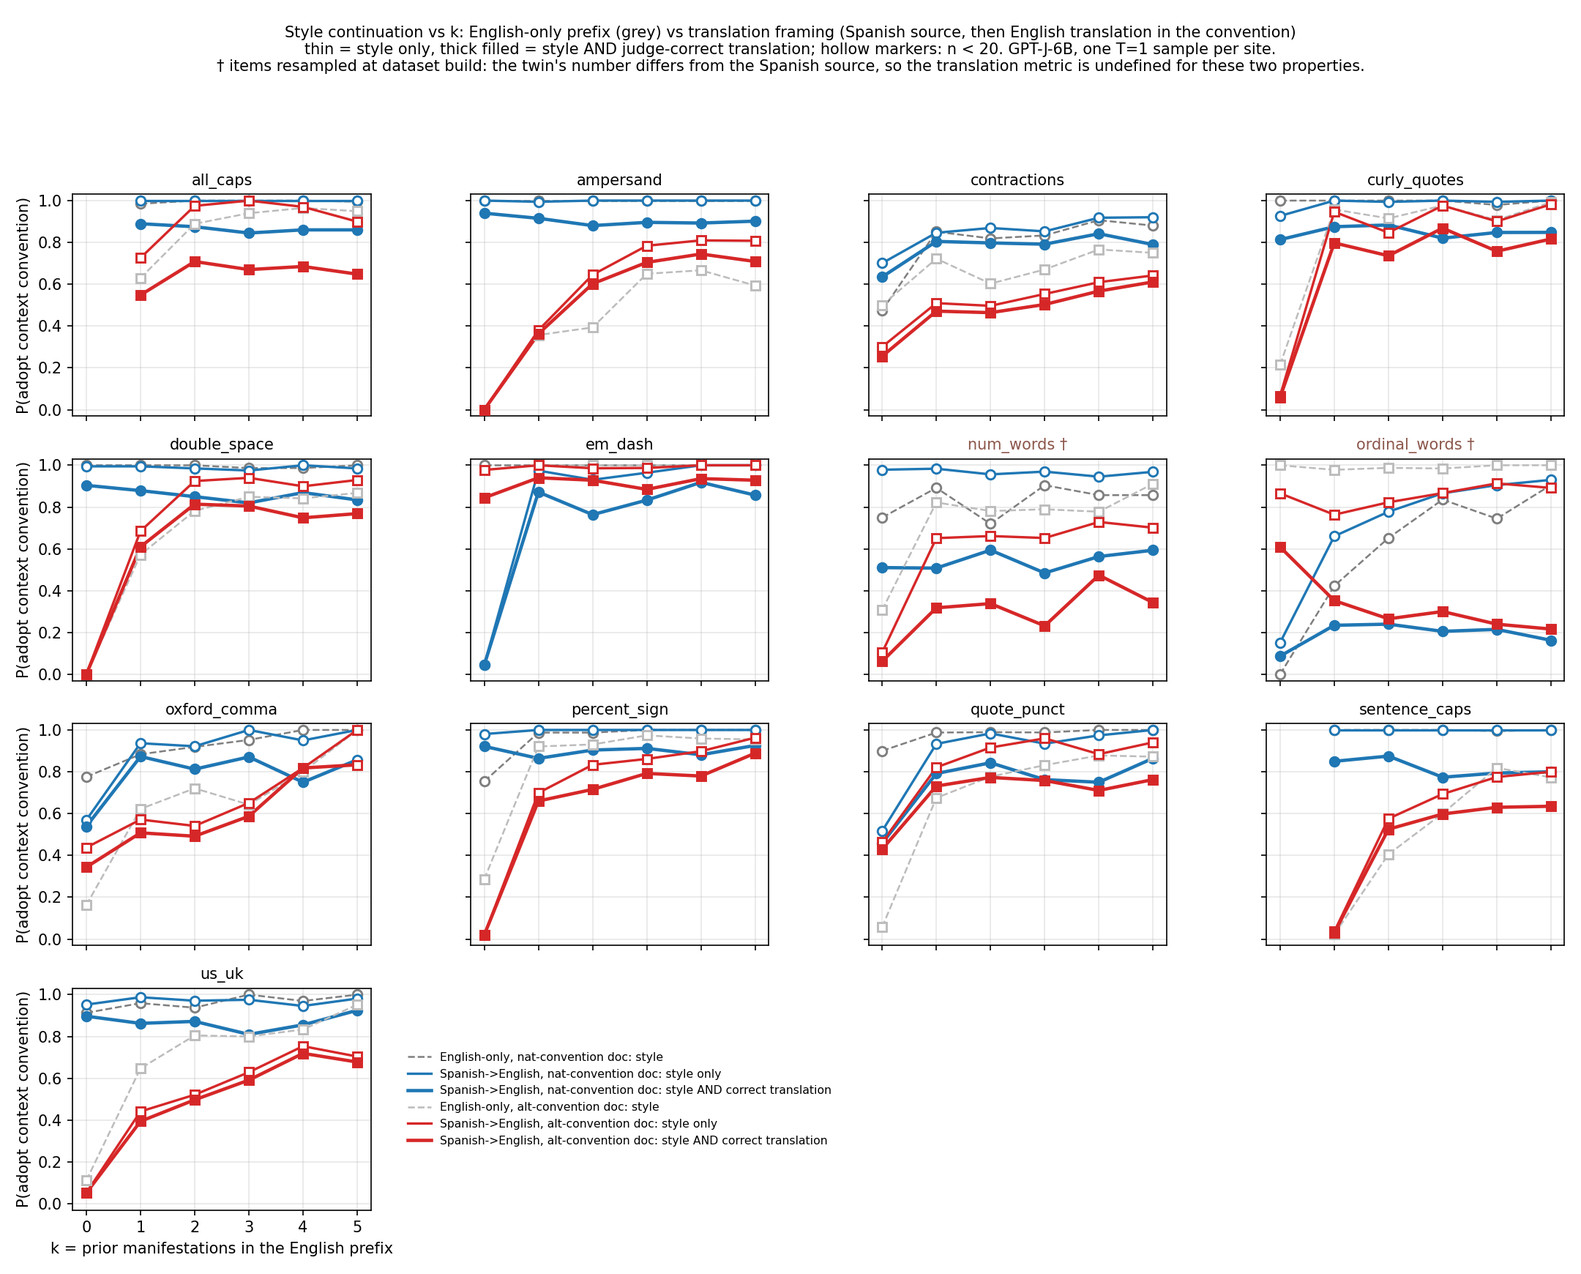
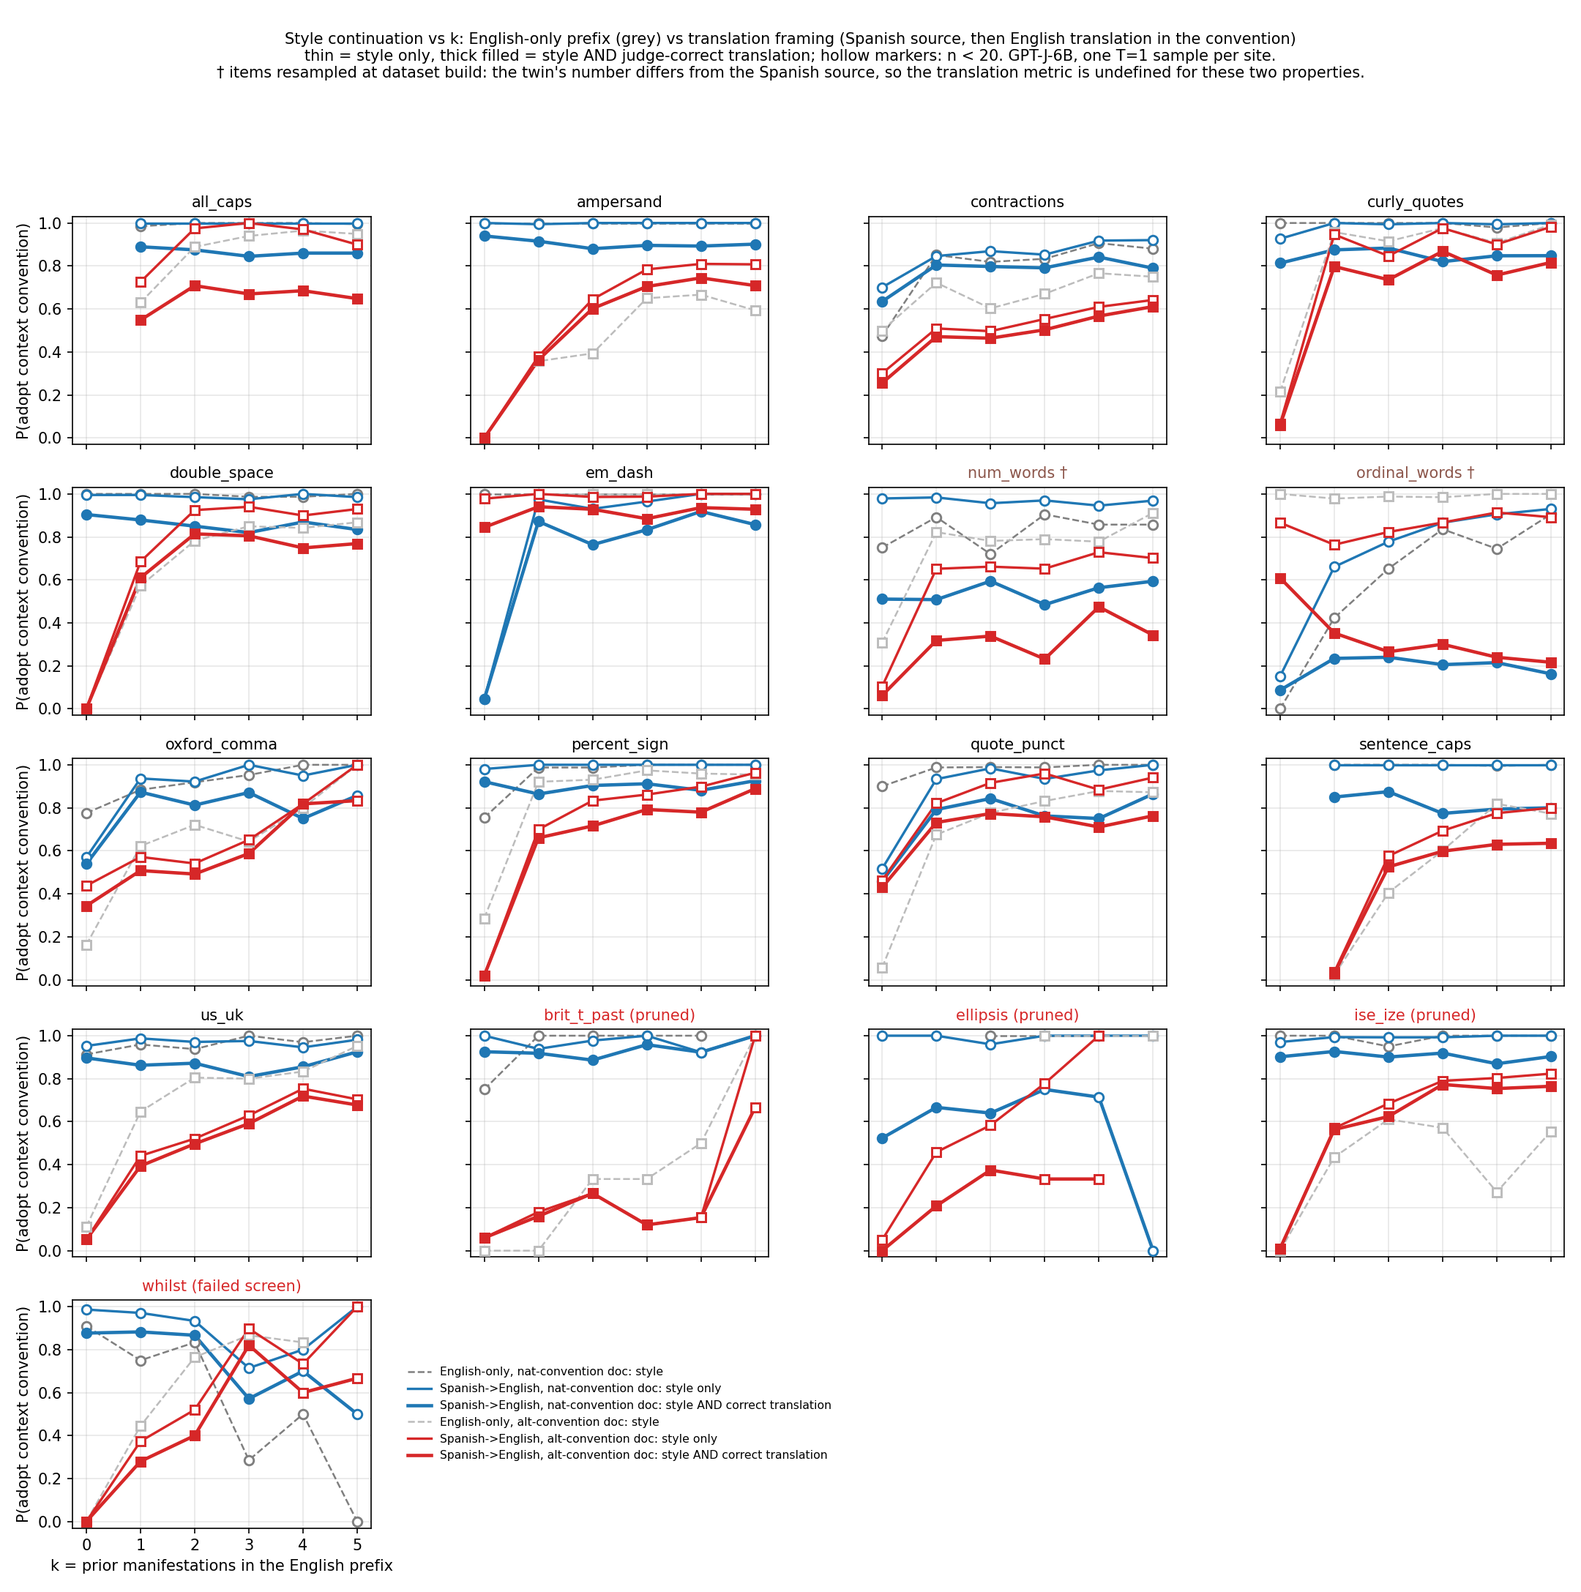
translation framing: all 17 properties incl. the 4 prescreen-excluded ones; A4 gate re-evaluated under both framings (gate.csv); README/WORKLOG/DECISIONS

diff --git a/src/sandbox/ext_styleprops/plot_translation_framing.py b/src/sandbox/ext_styleprops/plot_translation_framing.py
@@ -37,9 +37,19 @@ from src.utils.paths import ARTIFACTS_ROOT, REPO_ROOT, STYLE_PROPERTIES_DIR
 PLAIN_DIR = ARTIFACTS_ROOT / "style_properties" / "prescreen"
 TRANS_DIR = ARTIFACTS_ROOT / "style_properties" / "prescreen_translate"
 OUT_DIR = STYLE_PROPERTIES_DIR / "translation_framing"
-POOL = json.load(open(REPO_ROOT / "task_splits" / "style_properties_pool.json"))["pass"]
+_POOL_FILE = json.load(open(REPO_ROOT / "task_splits" / "style_properties_pool.json"))
+POOL = _POOL_FILE["pass"]
+# The 4 properties excluded from the pool by the ENGLISH-ONLY prescreen (whilst failed the
+# gate; ellipsis / brit_t_past / ise_ize pruned for one-sided classifier / <15% scorable).
+# User request 2026-09-07: run them through the translation framing too and re-evaluate the
+# gate under it — the framing anchors content, so they may reach the feature slot far more often.
+EXCLUDED = {p: "failed screen" for p in _POOL_FILE.get("fail", [])}
+EXCLUDED.update({p: "pruned" for p in _POOL_FILE.get("pruned", [])})
+ALL_PROPS = POOL + sorted(EXCLUDED)
 PLOT_BINS = list(range(6))
+K_BINS = [0, 1, 2, 3, 4]          # gate bins, last = k>=4 (plot_prescreen convention)
 MIN_N = 20
+SCORABLE_FLOOR = 0.15
 # Items of these properties are RESAMPLED at dataset build (properties.py NumWords/OrdinalWords
 # .resample, user decision 2026-09-02), so the English twin's number differs from the Spanish
 # source at the scored site: translation correctness is undefined there (see README).
@@ -47,7 +57,12 @@ RESAMPLED = {"num_words", "ordinal_words"}
 
 
 def panel_title(p):
-    return f"{p} †" if p in RESAMPLED else p
+    t = f"{p} †" if p in RESAMPLED else p
+    return f"{t} ({EXCLUDED[p]})" if p in EXCLUDED else t
+
+
+def title_color(p):
+    return "#d62728" if p in EXCLUDED else ("#8c564b" if p in RESAMPLED else "black")
 LABEL_CODE = {"nat": 1, "alt": 0, None: -1}
 
 
@@ -87,6 +102,64 @@ def curves(a, sel):
     return out
 
 
+def spearman(xs, ys):
+    """Spearman rho without scipy (few points, ties unlikely)."""
+    xs, ys = np.asarray(xs, float), np.asarray(ys, float)
+    if len(xs) < 3 or np.ptp(xs) == 0 or np.ptp(ys) == 0:
+        return np.nan          # constant input -> undefined, as scipy.stats.spearmanr
+
+    def avg_rank(v):           # average ranks for ties (scipy rankdata default)
+        u, inv = np.unique(v, return_inverse=True)
+        pos = np.argsort(np.argsort(v, kind="stable"), kind="stable").astype(float)
+        r = np.empty_like(pos)
+        for i in range(len(u)):
+            m = inv == i
+            r[m] = pos[m].mean()
+        return r
+    rx, ry = avg_rank(xs), avg_rank(ys)
+    rx, ry = rx - rx.mean(), ry - ry.mean()
+    den = np.sqrt((rx ** 2).sum() * (ry ** 2).sum())
+    return float((rx * ry).sum() / den) if den else np.nan
+
+
+def gate_stats(a):
+    """The Stage-A4 prescreen gate (plot_prescreen.py, memo item 4) on one record set:
+    separation s(k) = P(nat | nat ctx) - P(nat | alt ctx) over scorable items in gate bins
+    k=0..3, k>=4; PASS = s_k4 >= 0.3 AND Spearman(k, s) > 0 (or undefined) AND adherence to
+    the prior-DISFAVOURED pole at k>=4 >= 0.4 AND scorable >= 15% floor."""
+    kb = np.minimum(a["k"], 4)
+    sc = a["scorable"]
+    is_nat_lab = a["label"] == 1
+    s_curve = []
+    for k in K_BINS:
+        m = sc & (kb == k)
+        pn = rate(is_nat_lab, m & a["pol"])[0]
+        pa = rate(is_nat_lab, m & ~a["pol"])[0]
+        s_curve.append(pn - pa)
+    scorable = float(sc.mean())
+    s_k4 = s_curve[-1]
+    valid = [(k, s) for k, s in zip(K_BINS, s_curve) if not np.isnan(s)]
+    rho = spearman([v[0] for v in valid], [v[1] for v in valid]) if len(valid) >= 3 else np.nan
+    m0 = sc & (kb == 0)
+    nat_k0 = rate(is_nat_lab, m0 & a["pol"])[0]
+    alt_k0 = rate(is_nat_lab, m0 & ~a["pol"])[0]
+    with np.errstate(all="ignore"):
+        import warnings
+        with warnings.catch_warnings():
+            warnings.simplefilter("ignore")
+            prior_nat = bool(np.nanmean([nat_k0, alt_k0]) > 0.5)   # nan > 0.5 is False, as in plot_prescreen
+    disf_is_nat = not prior_nat
+    sub = sc & (kb == 4) & (a["pol"] == disf_is_nat)
+    v = rate(is_nat_lab, sub)[0]
+    adh_disf = v if disf_is_nat else (1 - v)
+    passed = (not np.isnan(s_k4) and s_k4 >= 0.3 and (np.isnan(rho) or rho > 0)
+              and not np.isnan(adh_disf) and adh_disf >= 0.4 and scorable >= SCORABLE_FLOOR)
+    r3 = lambda x: "" if np.isnan(x) else round(float(x), 3)
+    return dict(scorable=round(scorable, 3), s_k0=r3(s_curve[0]), s_k4=r3(s_k4),
+                spearman_k=r3(rho), disfavored_pole="nat" if disf_is_nat else "alt",
+                adh_disfavored_k4=r3(adh_disf), n_disfavored_k4=int(sub.sum()), PASS=passed)
+
+
 def plot_line(ax, cur, key, color, ls, marker, label, filled=True, lw=1.6):
     xs = [k for k in PLOT_BINS if not np.isnan(cur[k][key][0])]
     ys = [cur[k][key][0] for k in xs]
@@ -99,8 +172,8 @@ def plot_line(ax, cur, key, color, ls, marker, label, filled=True, lw=1.6):
 
 def main():
     OUT_DIR.mkdir(parents=True, exist_ok=True)
-    props = [p for p in POOL if (TRANS_DIR / f"{p}.json").exists()]
-    missing = [p for p in POOL if p not in props]
+    props = [p for p in ALL_PROPS if (TRANS_DIR / f"{p}.json").exists()]
+    missing = [p for p in ALL_PROPS if p not in props]
     if missing:
         print("missing translate records:", missing)
     data = {p: {"plain": load(PLAIN_DIR / f"{p}.json"), "trans": load(TRANS_DIR / f"{p}.json")}
@@ -151,7 +224,7 @@ def main():
         for framing in ("plain", "trans"):
             for key in ("k", "pol", "label", "exact", "judge"):
                 npz[f"{p}__{framing}__{key}"] = data[p][framing][key]
-        ax.set_title(panel_title(p), fontsize=10, color="#8c564b" if p in RESAMPLED else "black")
+        ax.set_title(panel_title(p), fontsize=10, color=title_color(p))
         ax.set_ylim(-0.03, 1.03)
         ax.set_xticks(PLOT_BINS)
         ax.grid(alpha=0.3)
@@ -190,7 +263,7 @@ def main():
                   filled=False, lw=1.3)
         plot_line(ax, allp, "unscorable", "#c5b0d5", ":", "^", "English-only: style-unscorable fraction",
                   filled=False, lw=1.3)
-        ax.set_title(panel_title(p), fontsize=10, color="#8c564b" if p in RESAMPLED else "black")
+        ax.set_title(panel_title(p), fontsize=10, color=title_color(p))
         ax.set_ylim(-0.03, 1.03)
         ax.set_xticks(PLOT_BINS)
         ax.grid(alpha=0.3)
@@ -211,6 +284,25 @@ def main():
     fig.tight_layout(rect=(0, 0, 1, 0.93))
     fig.savefig(OUT_DIR / "translation_by_k.png", dpi=150)
     plt.close(fig)
+
+    # ---- gate.csv: the English-only prescreen gate re-evaluated under both framings ---------
+    gate_rows = []
+    for p in props:
+        for framing in ("plain", "trans"):
+            g = gate_stats(data[p][framing])
+            gate_rows.append({"property": p, "framing": framing,
+                              "pool_status": EXCLUDED.get(p, "in pool"),
+                              "n": int(len(data[p][framing]["k"])), **g})
+    with open(OUT_DIR / "gate.csv", "w", newline="") as f:
+        w = csv.DictWriter(f, fieldnames=list(gate_rows[0].keys()))
+        w.writeheader()
+        w.writerows(gate_rows)
+    print(f"\n{'property':14s} {'status':13s} {'framing':7s} {'scorable':>8s} {'s_k4':>6s} "
+          f"{'rho':>6s} {'adh_disf':>8s} {'n_disf':>6s} PASS")
+    for r in gate_rows:
+        print(f"{r['property']:14s} {r['pool_status']:13s} {r['framing']:7s} {r['scorable']:>8} "
+              f"{str(r['s_k4']):>6} {str(r['spearman_k']):>6} {str(r['adh_disfavored_k4']):>8} "
+              f"{r['n_disfavored_k4']:>6} {r['PASS']}")
 
     cols = list(summary[0].keys())
     with open(OUT_DIR / "summary.csv", "w", newline="") as f:

diff --git a/results/style_properties/translation_framing/README.md b/results/style_properties/translation_framing/README.md
@@ -37,7 +37,7 @@ prescreen (≤10), classified nat / alt / unscorable by the same property classi
 | Spanish form | **neutral and fixed**: one translation per base doc (Gemini 2.5 Flash via OpenRouter, T=0), identical for both English polarities, standard Spanish typography — single spaces, straight quotes, digits, `%`, sentence caps, parenthetical dashes rendered as ` - `. Enforced by a deterministic fix-up; `es_audit.csv` shows zero remaining double spaces / curly quotes / em-dashes / all-caps sentences, length ratio es/en median 1.16 [1.02, 1.32], paragraph structure preserved in all 878 docs. The English prefix is the only source of the convention. |
 | translation metric | **Gemini judge primary, normalised exact match secondary** (definitions below) |
 | prompt layout | **language labels** `Spanish:` / `English:` |
-| scope | translation framing only is sampled; the English-only comparison reuses the 2026-09-01/02 prescreen records (same items, different sampling run) |
+| scope | translation framing only is sampled (13-property pool on 2026-09-06, the 4 excluded properties added 2026-09-07 at the user's request — see Extension below); the English-only comparison reuses the 2026-09-01/02 prescreen records (same items, different sampling run) |
 
 ## Metrics
 
@@ -63,6 +63,7 @@ prescreen (≤10), classified nat / alt / unscorable by the same property classi
 | `accuracy_by_k.png` | per property: English-only style (grey dashed) vs translation-framed style-only (open) and joint style+translation (filled), by exact k 0..5, both context polarities |
 | `translation_by_k.png` | judge-correct and exact-match rates vs k (translate framing), English-only exact-match reference, style-unscorable fractions |
 | `summary.csv` | per property × framing × context polarity: style/judge/exact/joint/unscorable by k with denominators, k≥4 aggregates, judge-failure counts |
+| `gate.csv` | the Stage-A4 prescreen gate (separation, Spearman, disfavoured-pole adherence, 15 % scorable floor) re-evaluated for all 17 properties under both framings (extension 2026-09-07) |
 | `records.npz` | per property × framing arrays `k, pol, label, exact, judge` to regenerate views |
 | `es_audit.csv` | per-doc Spanish audit (word ratios, leak counts, paragraph counts) |
 
@@ -132,6 +133,46 @@ Nat-convention docs sit at 0.93–1.0 style in both framings (see `summary.csv`,
   `double_space`, `sentence_caps`, `all_caps` show no k = 0 shift. So the k = 0 point of the
   framing is "Spanish typography prior", not the model's own prior; from k ≥ 1 the English
   prefix dominates for every property.
+## Extension 2026-09-07: the four properties excluded by the English-only prescreen
+
+User request: the prescreen pruning (`whilst` failed the gate; `ellipsis`, `brit_t_past`,
+`ise_ize` pruned for one-sided classifier / < 15 % scorable) was decided under free
+continuation, so the four were run through the translation framing too and the **same gate**
+(separation at k ≥ 4 ≥ 0.3, Spearman(k, separation) > 0, adherence to the prior-disfavoured pole
+at k ≥ 4 ≥ 0.4, plus the 15 % scorable floor) re-evaluated under both framings for all 17
+properties → `gate.csv` (`plot_translation_framing.py` reproduces
+`behavioral_prescreen/prescreen_summary.csv` exactly on the English-only records).
+
+| property | scorable, English-only → framing | separation k≥4, framing | adherence disfavoured pole k≥4 (n) | judge-correct | gate under framing |
+|---|---|---|---|---|---|
+| ise_ize (pruned) | 0.107 → 0.690 | 0.805 | 0.805 (118) | 0.889 | **PASS** |
+| whilst (failed) | 0.085 → 0.506 | 0.611 | 0.778 (18) | 0.794 | PASS, thin k≥4 cells |
+| ellipsis (pruned) | 0.037 → 0.584 | 1.000 | 1.000 (8) | 0.561 * | PASS, very thin (148 sites) |
+| brit_t_past (pruned) | 0.050 → 0.608 | 0.266 | 0.316 (19) | 0.850 | **FAIL** (separation) |
+
+- **The scorable-rate objection disappears under the framing**: content anchoring makes the
+  model reach the lexical slot (the -ise/-ize word, whilst/while, the past-tense verb, the
+  ellipsis), so all four clear the 15 % floor by a wide margin. That was the reason three of
+  them were pruned.
+- **ise_ize now behaves like a pool property** (0.805 adherence to the British pole at k ≥ 4,
+  n = 118) and is the clearest candidate for re-admission — *for this framing*. Whether it
+  re-enters the English-only pool is a separate user decision: under free continuation its
+  scorable rate is still 10.7 %.
+- **whilst and ellipsis pass but on 18 and 8 disfavoured-pole items** at k ≥ 4 — their
+  documents rarely contain ≥ 5 opportunities. Treat as provisional.
+- **brit_t_past fails on separation, not on scorability**: with ≥ 4 British "-t" pasts in the
+  prefix the model still writes the regular form 68 % of the time (alt docs, k ≥ 4: 0.316). The
+  convention is not adopted in either framing.
+- \* ellipsis judge score is deflated by an artefact, not by bad translation: many ellipsis
+  sites end a sentence or the document, so the reference continuation is just "..." and the
+  fragment runs on into text the source does not contain, which the judge marks INCORRECT.
+- Figures now show all 17 panels; excluded properties are titled in red with their
+  original status. `gate.csv` PASS applies the 15 % floor, so the English-only rows for the
+  pruned properties read False there although their numeric gate values were True in
+  `prescreen_summary.csv`.
+- **Provenance (extension)**: pod `obv6xh4cp970td` (RTX PRO 4500 Blackwell, ~30 min incl.
+  boot), 3,860 items, judge 3,860 calls, 0 failures.
+
 - **Provenance**: sampling on pod `b0thtqx0mr7h5v` (RTX PRO 4500 Blackwell, ~2 h incl. one OOM
   restart at token budget 16000 → rerun at 8000/batch 16, seeds `crc32("<prop>|prescreen|translate|<batch>")`);
   judge = `google/gemini-2.5-flash` T=0 via OpenRouter, 30,102 calls, 0 failures after retry.

diff --git a/WORKLOG.md b/WORKLOG.md
@@ -8887,3 +8887,34 @@ then `--framing translate --token_budget 8000 --batch_cap 16` (30,102 items, ~75
 **Next (needs user decision):** fix the † properties (unresampled datasets vs twin-specific
 Spanish); optionally a mirrored-convention Spanish arm to separate "source typography" from
 "in-context teaching"; a no-label layout arm.
+
+## Stream: style-properties — translation framing, all 17 properties + gate re-evaluation (2026-09-07)
+
+**Status:** done, on main (no branch). User request: the 4 properties excluded by the
+English-only prescreen (whilst failed gate; ellipsis / brit_t_past / ise_ize pruned) may not
+need pruning under the translation framing → ran them through the same pipeline and
+re-evaluated the Stage-A4 gate under both framings for all 17 (`translation_framing/gate.csv`;
+the reimplementation reproduces `prescreen_summary.csv` exactly on the English-only records).
+**Result:** scorable rates jump 0.04–0.11 → 0.51–0.69 (content anchoring), so the pruning
+reason vanishes; gate under the framing: ise_ize PASS (adh .805, n=118 — clearest re-admission
+candidate for this framing), whilst PASS (n=18) and ellipsis PASS (n=8) but thin, brit_t_past
+FAIL (separation .266: the "-t" past is not adopted even at k≥4). Judge-correct .79–.89 except
+ellipsis .56 (artefact: end-of-sentence sites → reference is just "..."; fragment runs past the
+source). Figures now 17 panels, excluded titled red.
+
+**Commands:** pod obv6xh4cp970td (RTX PRO 4500, ~30 min, terminated): `logs/pt2_job.sh` =
+`prescreen_adherence.py --framing plain --add_refs --props brit_t_past ellipsis ise_ize whilst`
+then `--framing translate --props ... --token_budget 8000 --batch_cap 16` (3,860 items) ·
+`judge_translation.py --exact_only` on the 4 plain sets · `judge_translation.py --props ...`
+(3,860 calls, 0 failures) · `plot_translation_framing.py` (now ALL_PROPS = pool + fail + pruned,
+`gate_stats()` with a scipy-free tied-rank Spearman, writes gate.csv).
+
+**Housekeeping (user-approved):** all 45 side branches deleted on origin + locally, 5 worktrees
+removed, stray gitlink `.claude/worktrees/readwrite-map-understanding` removed from main; repo
+now has only `main`. Lesson recorded in DECISIONS/memory: `.claude/settings.json` has
+`bgIsolation: none` — never EnterWorktree here; the Edit-tool guard still refuses in-place
+edits, so use shell/python writes for files in the shared checkout.
+
+**Next (user decisions):** re-admit ise_ize (framing-only or also English-only pool?); collect
+more whilst/ellipsis documents if they are to count; fix the † resample confound for
+num_words/ordinal_words.

diff --git a/DECISIONS.md b/DECISIONS.md
@@ -1657,3 +1657,26 @@ by 1 − baseline (~0.1–0.2 on near-identical paired prompts) and conflates al
   English ids so the stored cue index/id assertions still hold; `prescreen_adherence.py
   --add_refs` backfills `ref_nat/ref_alt/ctx_tail` into existing records in `build_items` order
   (asserted) rather than re-sampling.
+
+## 2026-09-07 — Translation framing covers all 17 style properties; pool re-admission is a pending user decision
+
+- **Scope extension (user request):** the 4 properties excluded by the English-only prescreen
+  (`whilst`, `ellipsis`, `brit_t_past`, `ise_ize`) were run through the translation framing and
+  the Stage-A4 gate re-evaluated under both framings for all 17
+  (`results/style_properties/translation_framing/gate.csv`). The pruning reason (scorable rate
+  below 15 %) does not hold under the framing (0.51–0.69 scorable), because the source anchors
+  content and the model reaches the lexical slot.
+- **Pool status is UNCHANGED until the user decides.** `task_splits/style_properties_pool.json`
+  still lists 13; `ise_ize` passes the gate under the framing (n = 118), `whilst`/`ellipsis`
+  pass on thin cells (18 / 8), `brit_t_past` fails on separation. Re-admitting any of them —
+  and whether that applies to the English-only pool too — requires an explicit user decision.
+- **Gate reimplementation rule:** `plot_translation_framing.gate_stats` must reproduce
+  `behavioral_prescreen/prescreen_summary.csv` on the English-only records before any new-framing
+  gate number is reported (it does; the nan-at-k=0 prior-pole fallback and constant-curve
+  Spearman = undefined are the two details that had to match `plot_prescreen.py`).
+- **Repo hygiene (user-approved 2026-09-07):** all `worktree-*`/`claude-*` side branches
+  deleted on origin and locally, all worktrees removed; the repo has only `main`. Background
+  sessions must never call EnterWorktree here (`.claude/settings.json` has `bgIsolation: none`);
+  if the Edit-tool guard still refuses in-place edits, write via shell/python instead of
+  creating a worktree. Files another agent has uncommitted in the shared checkout are never
+  staged.

diff --git a/results/style_properties/README.md b/results/style_properties/README.md
@@ -24,4 +24,4 @@ datasets); scripts: `src/sandbox/ext_styleprops/`; run artifacts:
 `artifacts/style_properties/` (gitignored). Pool artifact after the gate:
 `task_splits/style_properties_pool.json`.
 | `steering/` | **STEERING SANDBOX — no default result.** Exploratory variant grid over {mean difference, mean activation, sparse head selection} × {k filter} × {success filter}; 4 of 12 cells have data, 8 not run. Start at `steering/README.md`; each cell has its own `spec.md` + `results.csv` + figure, and `comparison_table.png` shows all cells unranked. Promotion of any variant to repo standard requires an explicit user decision. |
-| `translation_framing/` | **SANDBOX variant (2026-09-06).** Teaching the convention through translation: `Spanish:` neutral translation of the doc, then `English:` twin in the convention up to the cue; accuracy = style adopted AND Gemini-judged correct translation, vs k, against the English-only prescreen. Start at `translation_framing/README.md` (user decisions, metric definitions, findings). |
+| `translation_framing/` | **SANDBOX variant (2026-09-06).** Teaching the convention through translation: `Spanish:` neutral translation of the doc, then `English:` twin in the convention up to the cue; accuracy = style adopted AND Gemini-judged correct translation, vs k, against the English-only prescreen; all 17 properties incl. the 4 prescreen-excluded ones, with the A4 gate re-evaluated under the framing (`gate.csv`, 2026-09-07). Start at `translation_framing/README.md` (user decisions, metric definitions, findings). |
